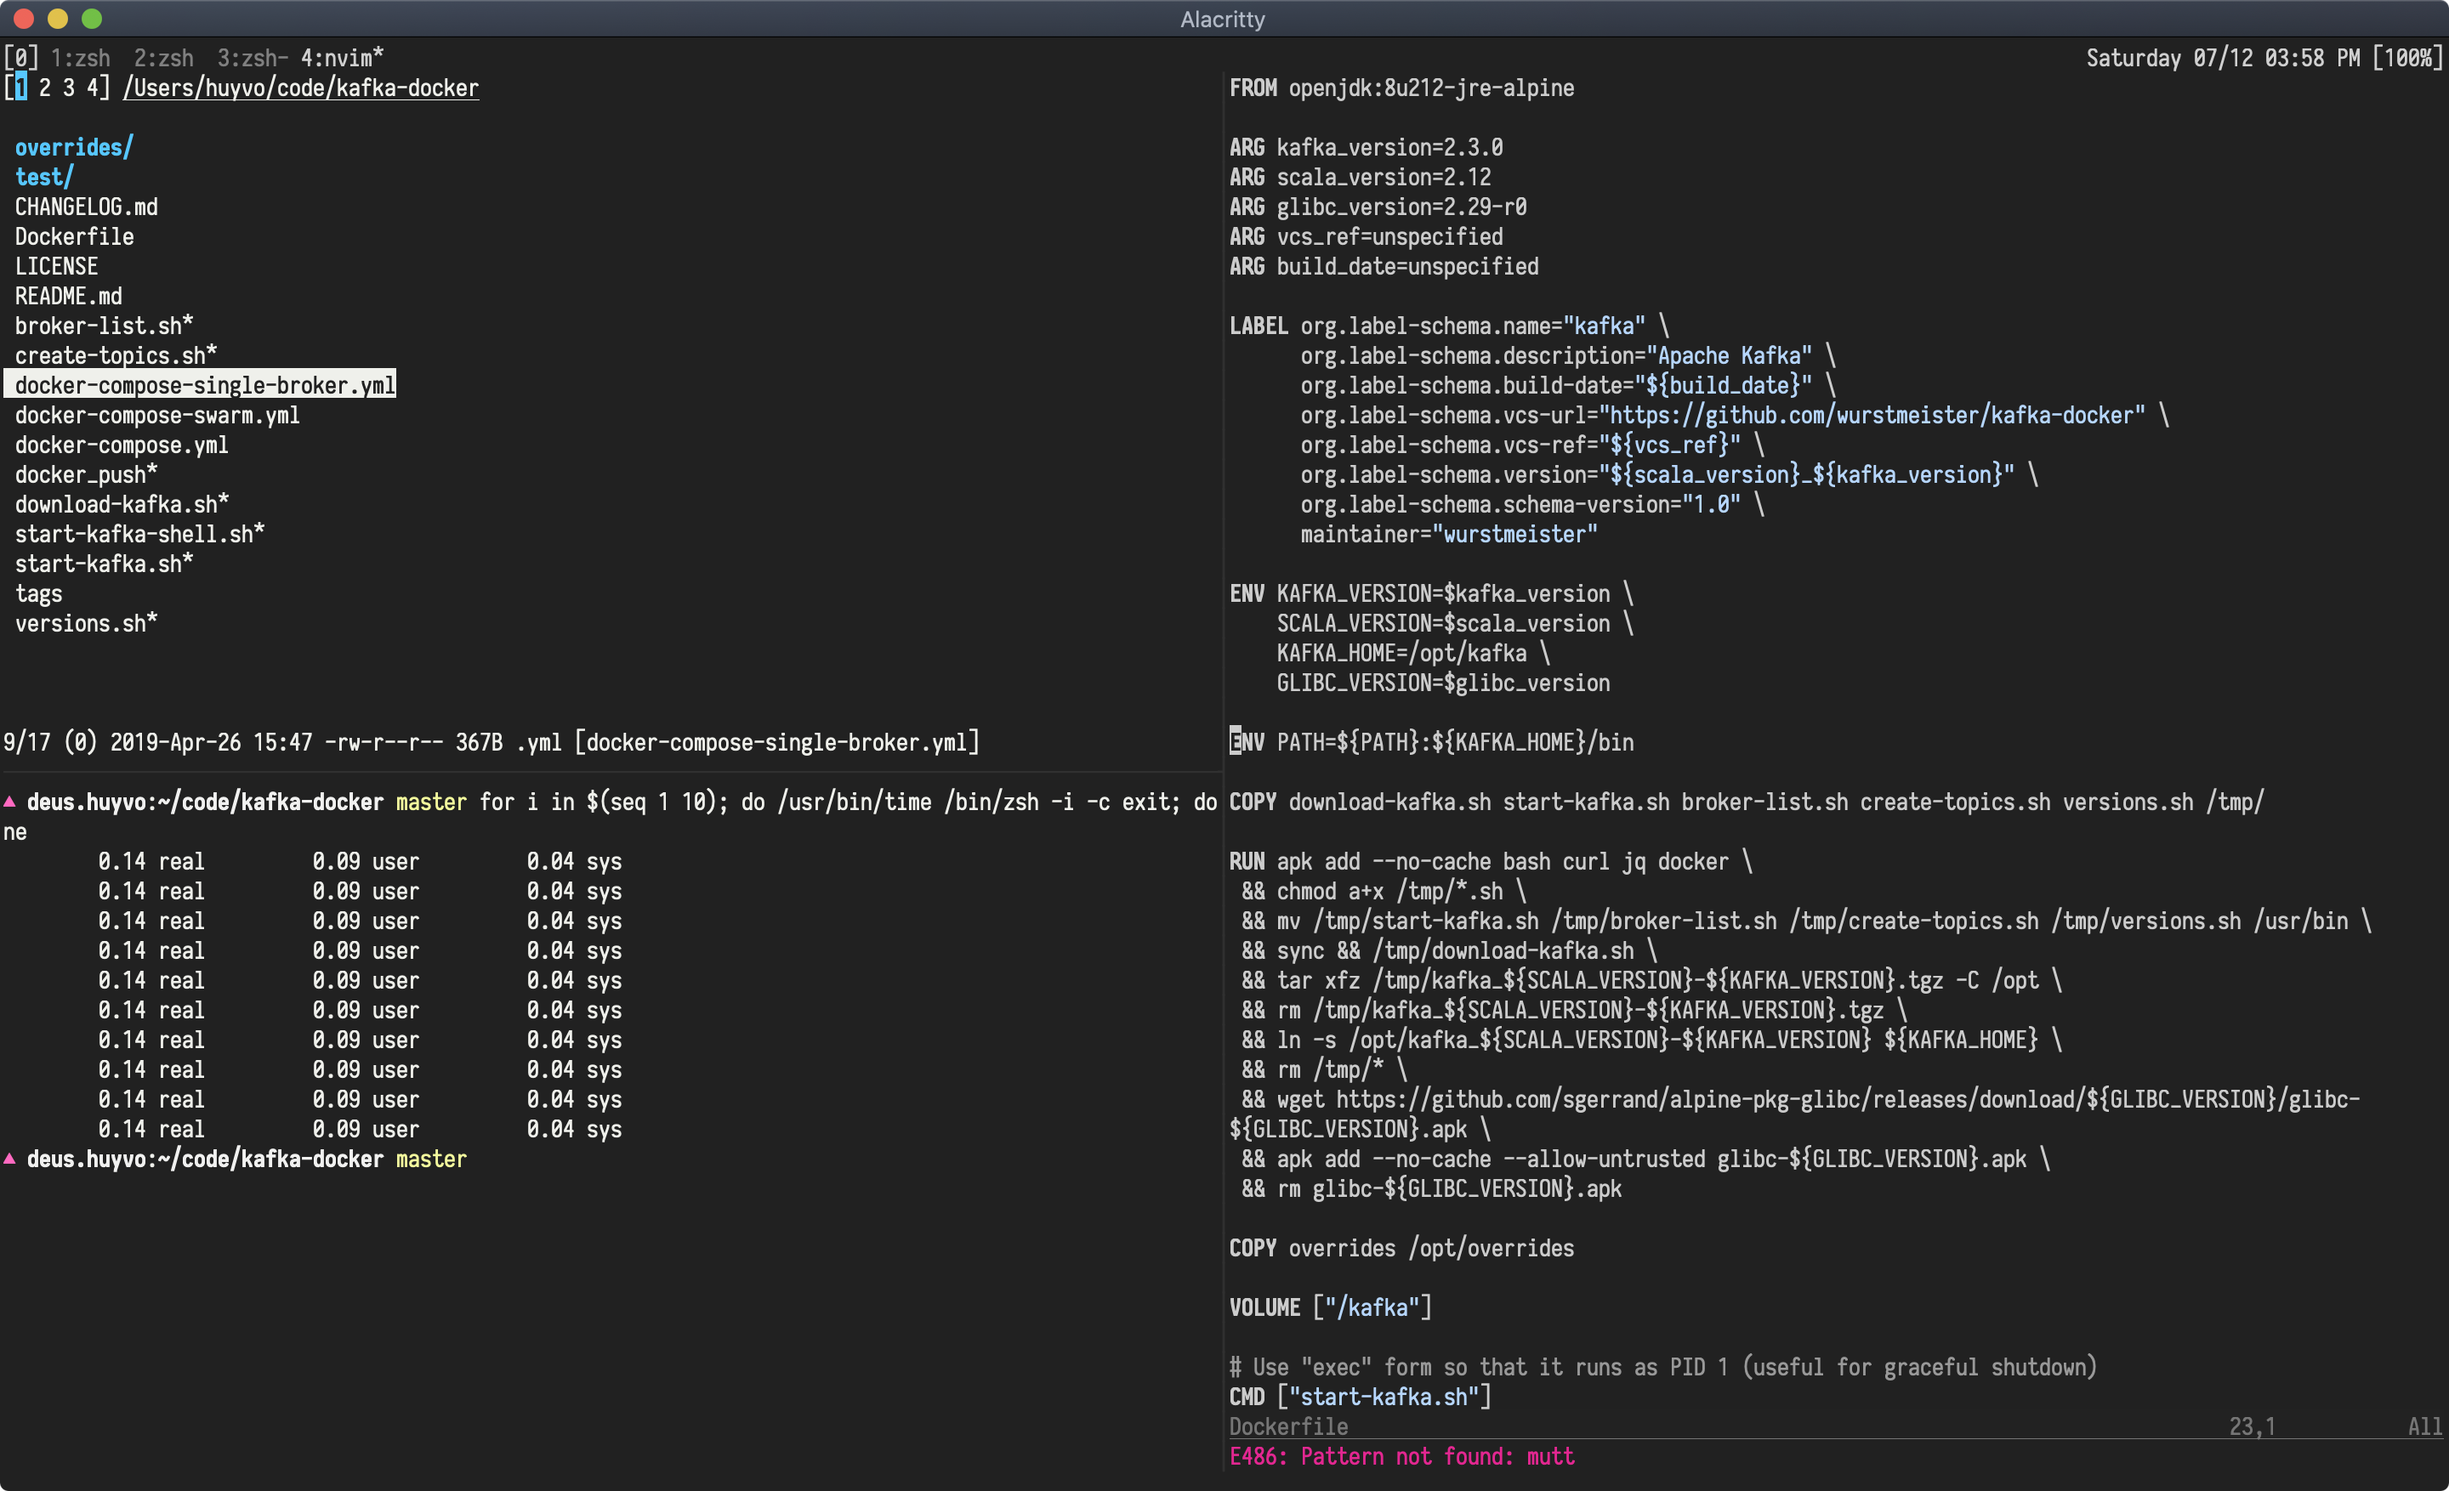
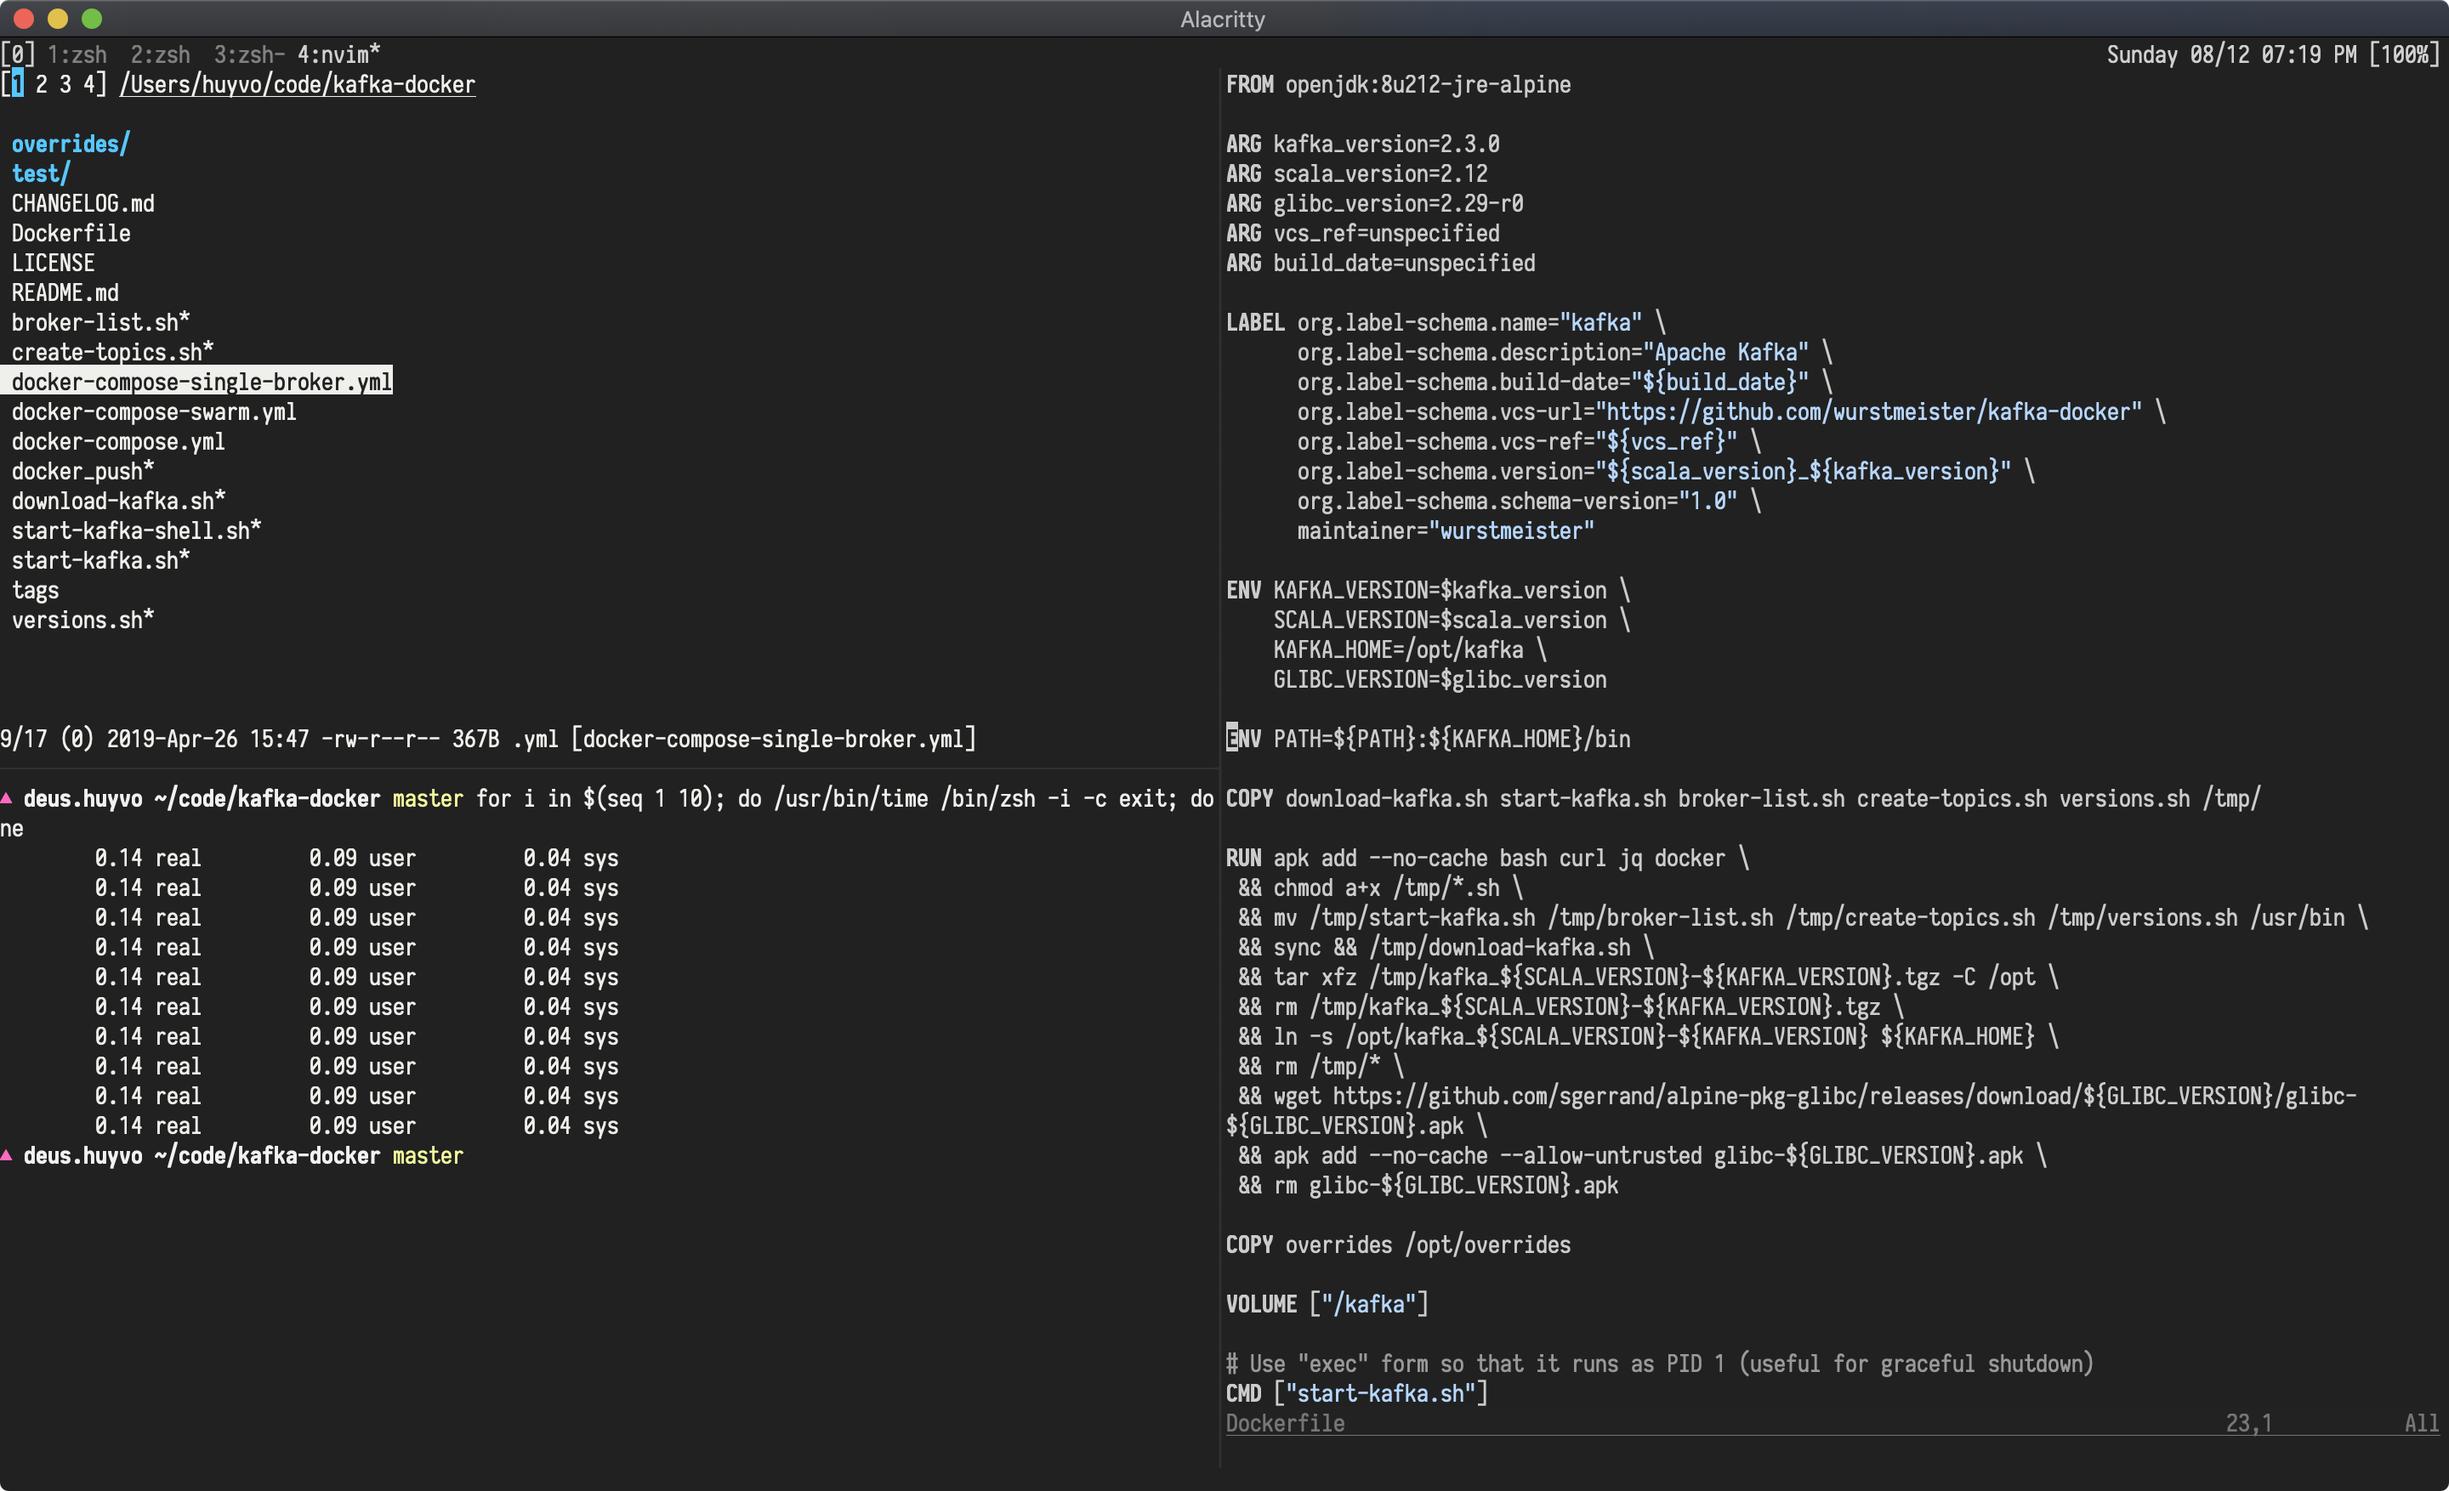
Update zsh theme

diff --git a/README.md b/README.md
@@ -76,20 +76,20 @@ Co-authored-by: Linus Torvalds <torvalds@transmeta.com>
 
 I use [Zplugin](https://github.com/zdharma/zplugin) to manage Zsh plugins. The file `.zshrc` will automatically install Zplugin if it's not installed and then load the plugins. I use a customized version of the theme [Zeit](https://github.com/zeit/zeit.zsh-theme). The only difference between them is my version doesn't contain any `Oh-My-Zsh` functions.
 
-## 0.15 milliseconds Zsh startup
+## 0.14 milliseconds Zsh startup
 
 ```sh
 $ for i in $(seq 1 10); do /usr/bin/time /bin/zsh -i -c exit; done
-        0.15 real         0.10 user         0.05 sys
         0.14 real         0.09 user         0.04 sys
-        0.15 real         0.09 user         0.05 sys
-        0.15 real         0.09 user         0.05 sys
-        0.15 real         0.09 user         0.04 sys
-        0.15 real         0.09 user         0.05 sys
-        0.15 real         0.09 user         0.05 sys
-        0.15 real         0.09 user         0.05 sys
-        0.15 real         0.09 user         0.05 sys
-        0.15 real         0.09 user         0.05 sys
+        0.14 real         0.09 user         0.04 sys
+        0.14 real         0.09 user         0.04 sys
+        0.14 real         0.09 user         0.04 sys
+        0.14 real         0.09 user         0.04 sys
+        0.14 real         0.09 user         0.04 sys
+        0.14 real         0.09 user         0.04 sys
+        0.14 real         0.09 user         0.04 sys
+        0.14 real         0.09 user         0.04 sys
+        0.14 real         0.09 user         0.04 sys
 ```
 
 This can be achieved thanks to the lazy-loading mechanism applied to virtual environment loaders like `Rbenv` and `Nvm`:
